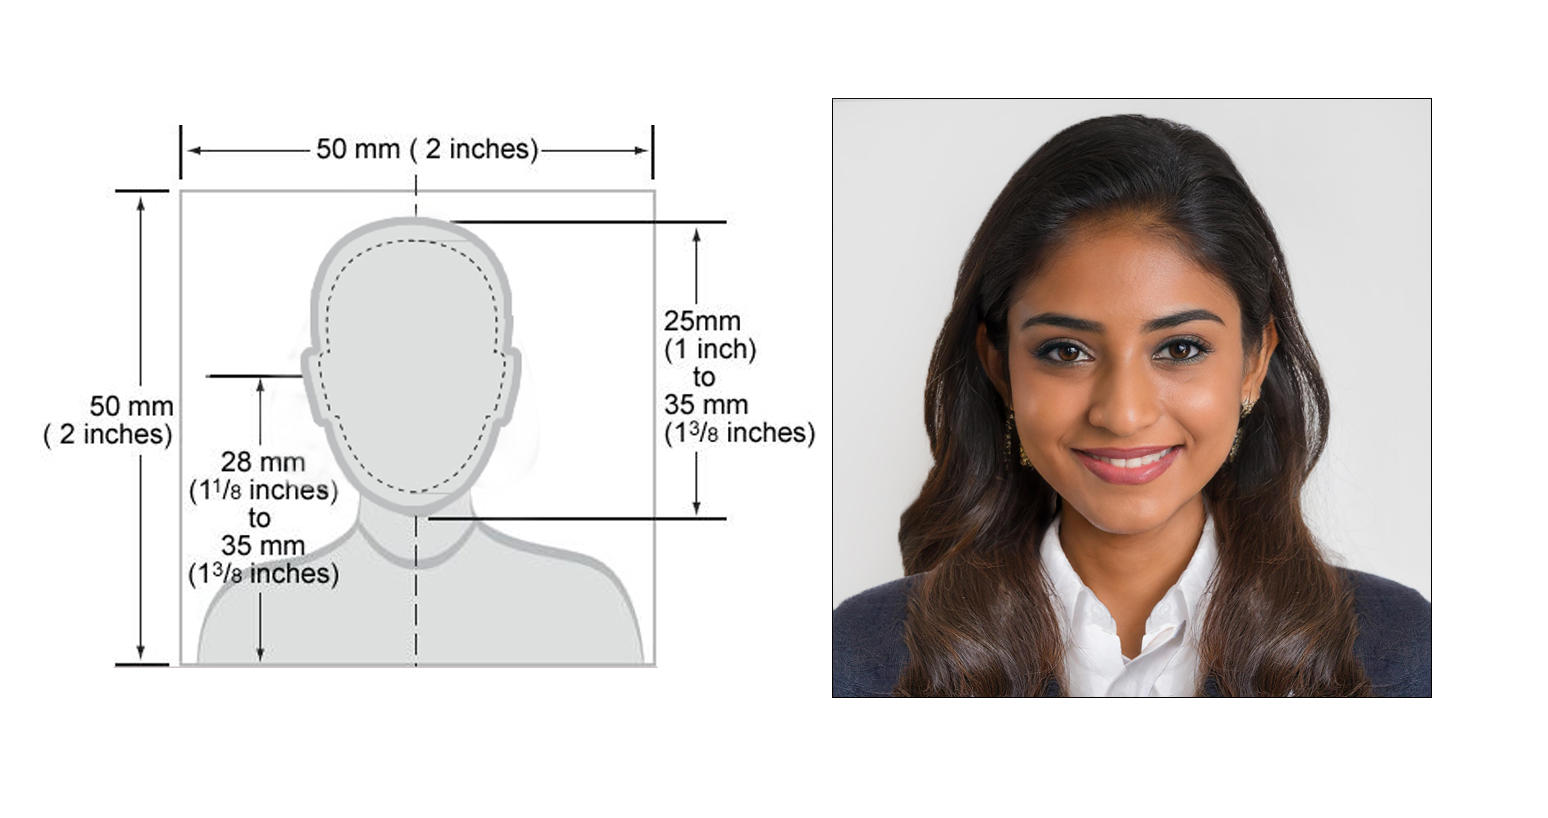
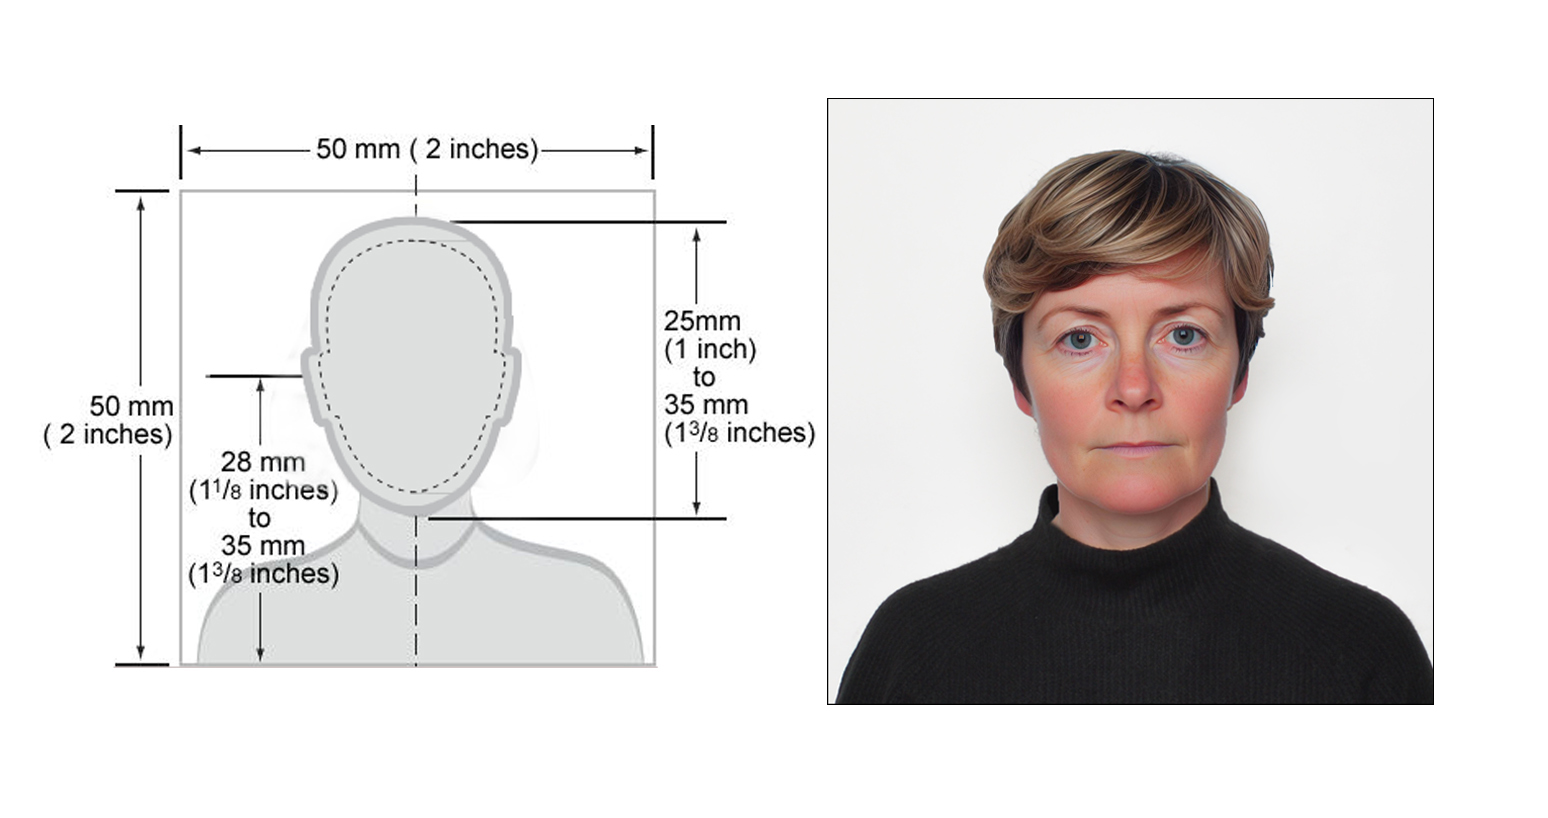
added more images to services section

Changed region(s): [[0.5271, 0.1222, 0.9302, 0.8863], [0.5271, 0.1222, 0.5581, 0.1528]]

diff --git a/app.js b/app.js
@@ -98,12 +98,12 @@ const questionsData = [
   },
   {
     title: "canada passport/visa",
-    text: "Set of 5x7cm prints & digital image sent to your email.",
+    text: "Set of 5x7cm or 35x45mm prints & digital image sent to your email.",
     image: "./photos/canadaTemplate.jpg"
   },
   {
     title: "india passport/visa",
-    text: "Set of 2x2 passport photos & digital image sent to your email.",
+    text: "Set of 2x2 inch (50x50mm) passport photos & digital image sent to your email.",
     image: "./photos/indiaTemplate.jpg"
   },
   {
@@ -128,13 +128,13 @@ const questionsData = [
   },
   {
     title: "safe pass",
-    text: "Set of Ireland citizenship photos & digital image sent to your email.",
-    image: "./photos/criticalSkillsTemplate.jpg"
+    text: "Set of Irish safe pass photos.",
+    image: "./photos/safePassTemplate.jpg"
   },
   {
     title: "taxi PSV licence",
-    text: "Set of Ireland critical skills photos & digital image sent to your email.",
-    image: "./photos/criticalSkillsTemplate.jpg"
+    text: "Set of three 10x7cm prints.",
+    image: "./photos/taxiLicenceTemplate.jpg"
   },
 ];
 
